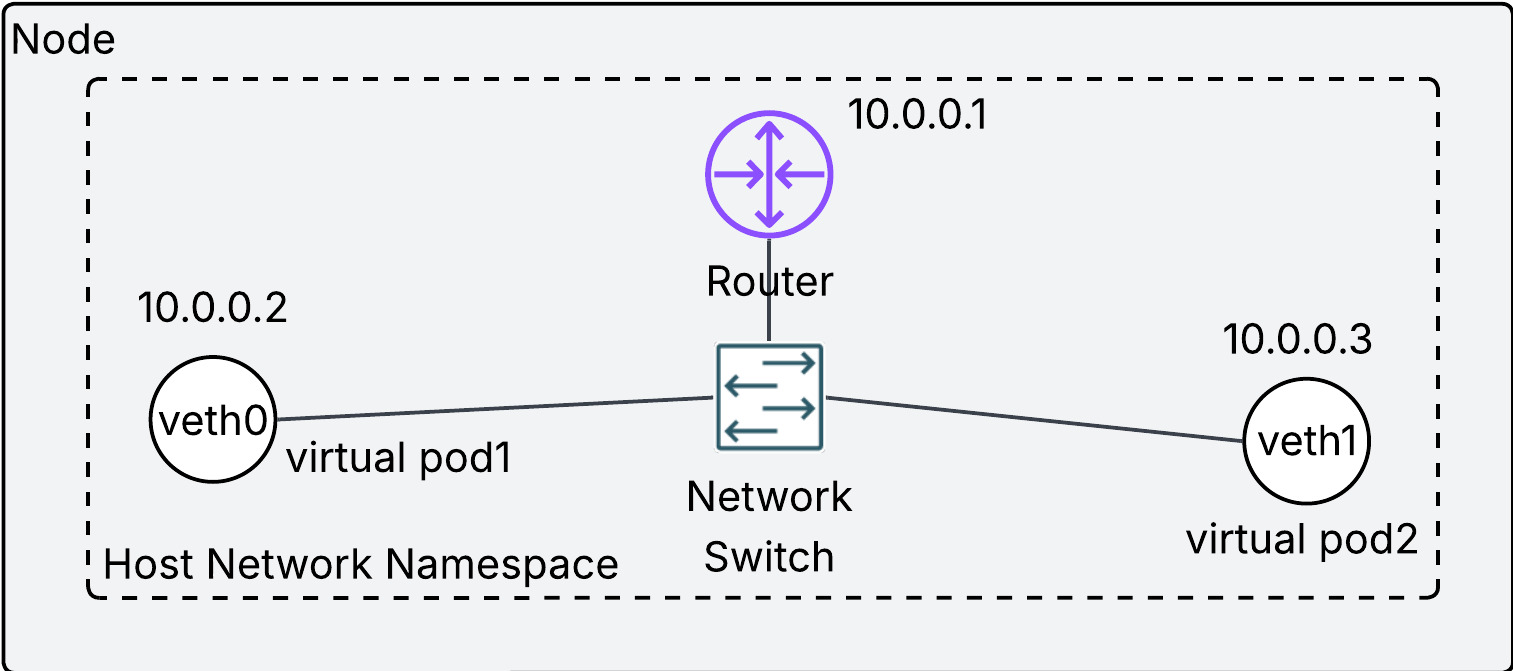
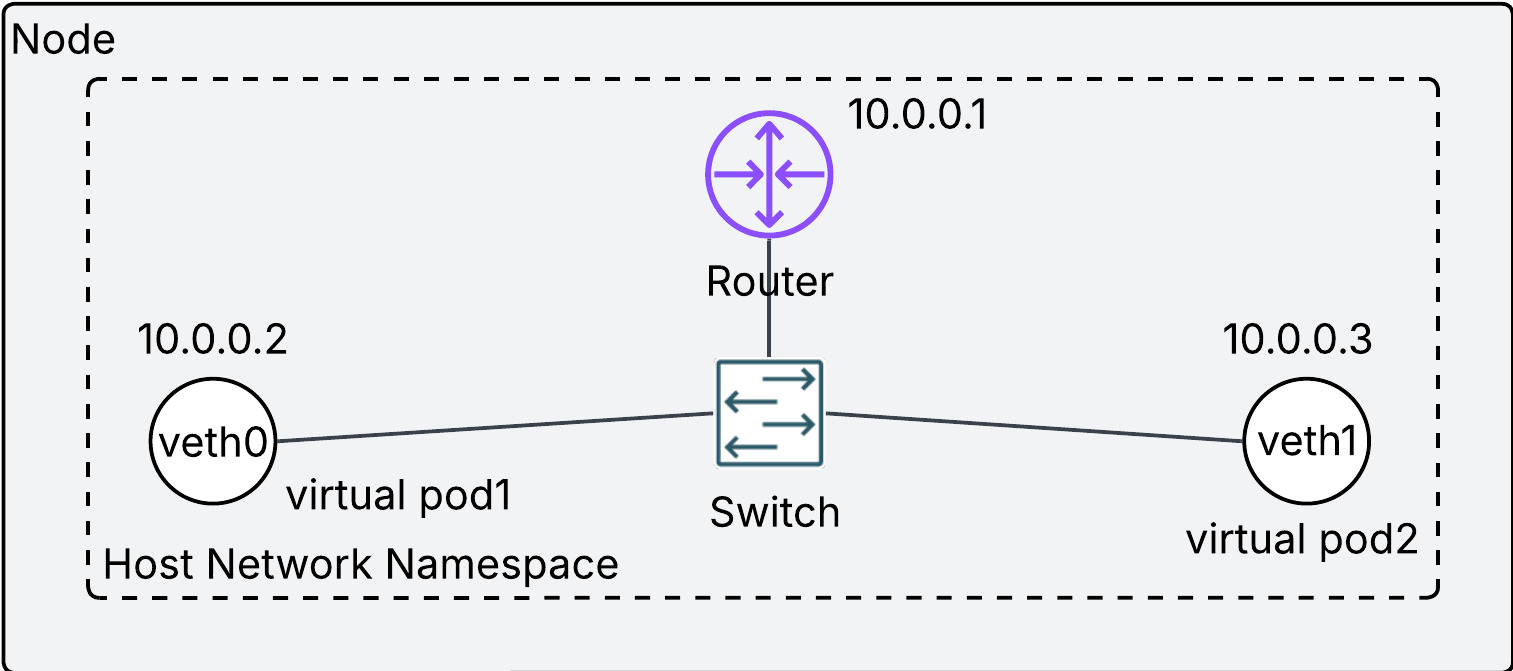
update w2

Changed region(s): [[0.0932, 0.4173, 0.8077, 0.8644]]

diff --git a/eks/02-networking.md b/eks/02-networking.md
@@ -14,6 +14,11 @@ toc:
     subsections:
       - name: Multiple IPs in a single node
       - name: Communication within a node
+      - name: Communication between nodes
+        subsections:
+          - name: Overlay (Flannel, VXLAN)
+          - name: BGP (Calico)
+          - name: Cloud Native (AWS VPC CNI)
   - name: 3. Service Network
   - name: 4. Gateway Network
 ---
@@ -60,6 +65,27 @@ If the above diagram looks confusing, try to understand it this way:
 - Overall, the entire diagram looks like a home network.
 
 {% include figure.html path="assets/img/eks/communicate-in-node-2.jpeg" class="img-fluid rounded z-depth-1" %}
+
+Each pod has its own IP address and they are connected via the bridge interface, which makes possible the communication between pods in the same node. We have confirmed the principle of pod networking on the same node. But kubernetes networking requires more than that. We need to ensure pod networking **on different nodes without Network Address Translation(NAT)**.
+
+### Communication between nodes
+We need to understand the meaning of **without NAT** first. NAT is a technique to allow a host in a local network to talk to another host in the different network. Please refer to [05 Network Address Translation(NAT)](/network/05-nat/) page for more details. The way to avoid NAT is to assign each pod to non-overlapping IP address across nodes. If each pod has a unique IP address in the cluster, we can regard the entire cluster as a single local network, and thus NAT is not required.
+
+Then how can we ensure a unique IP address for each pod across nodes in the same cluster? There are three ways:
+
+#### Overlay (Flannel, VXLAN)
+{% include figure.html path="assets/img/eks/overlay.jpeg" class="img-fluid rounded z-depth-1" %}
+An overlay is used to bridge a routing gap between the Pod network and the physical network. Because the physical network doesn't know which node owns which pod IP, the traffic must be **encapsulated** to get across. When a Pod sends a packet, the node wraps it in a new packet (typically UDP/VXLAN) addressed to the destination node. The receiving node then unwraps it and delivers it to the destination Pod. This provides great flexibility but adds a small amount of CPU overhead and reduces the effective MTU.
+
+#### BGP (Calico)
+{% include figure.html path="assets/img/eks/bgp.jpeg" class="img-fluid rounded z-depth-1" %}
+BGP-based networking **avoids encapsulation** by making the underlying network fabric aware of Pod IP addresses. Nodes use the Border Gateway Protocol (BGP) to **advertise the Pod IP ranges** they are currently hosting **to other nodes and routers**. This allows packets to be routed natively between nodes without being wrapped in extra headers. It offers high performance and easier debugging, but requires a network infrastructure that can handle a large number of dynamic routes and potentially support BGP.
+
+
+#### Cloud Native (AWS VPC CNI)
+{% include figure.html path="assets/img/eks/aws-vpc-cni.jpeg" class="img-fluid rounded z-depth-1" %}
+In AWS EKS, the default is the VPC CNI, which treats Pods as "first-class citizens" of the VPC. **Each Pod is assigned a real secondary private IP address from the VPC's own subnets**. Because the AWS VPC fabric natively understands these IPs, no overlays or BGP are required. Traffic is routed directly through the AWS infrastructure at native speeds. This also allows Pods to use VPC features like Security Groups and Flow Logs directly. However, it can consume VPC IP addresses quickly and is subject to ENI/IP limits per instance type.
+
 
 ## 3. Service Network
 
